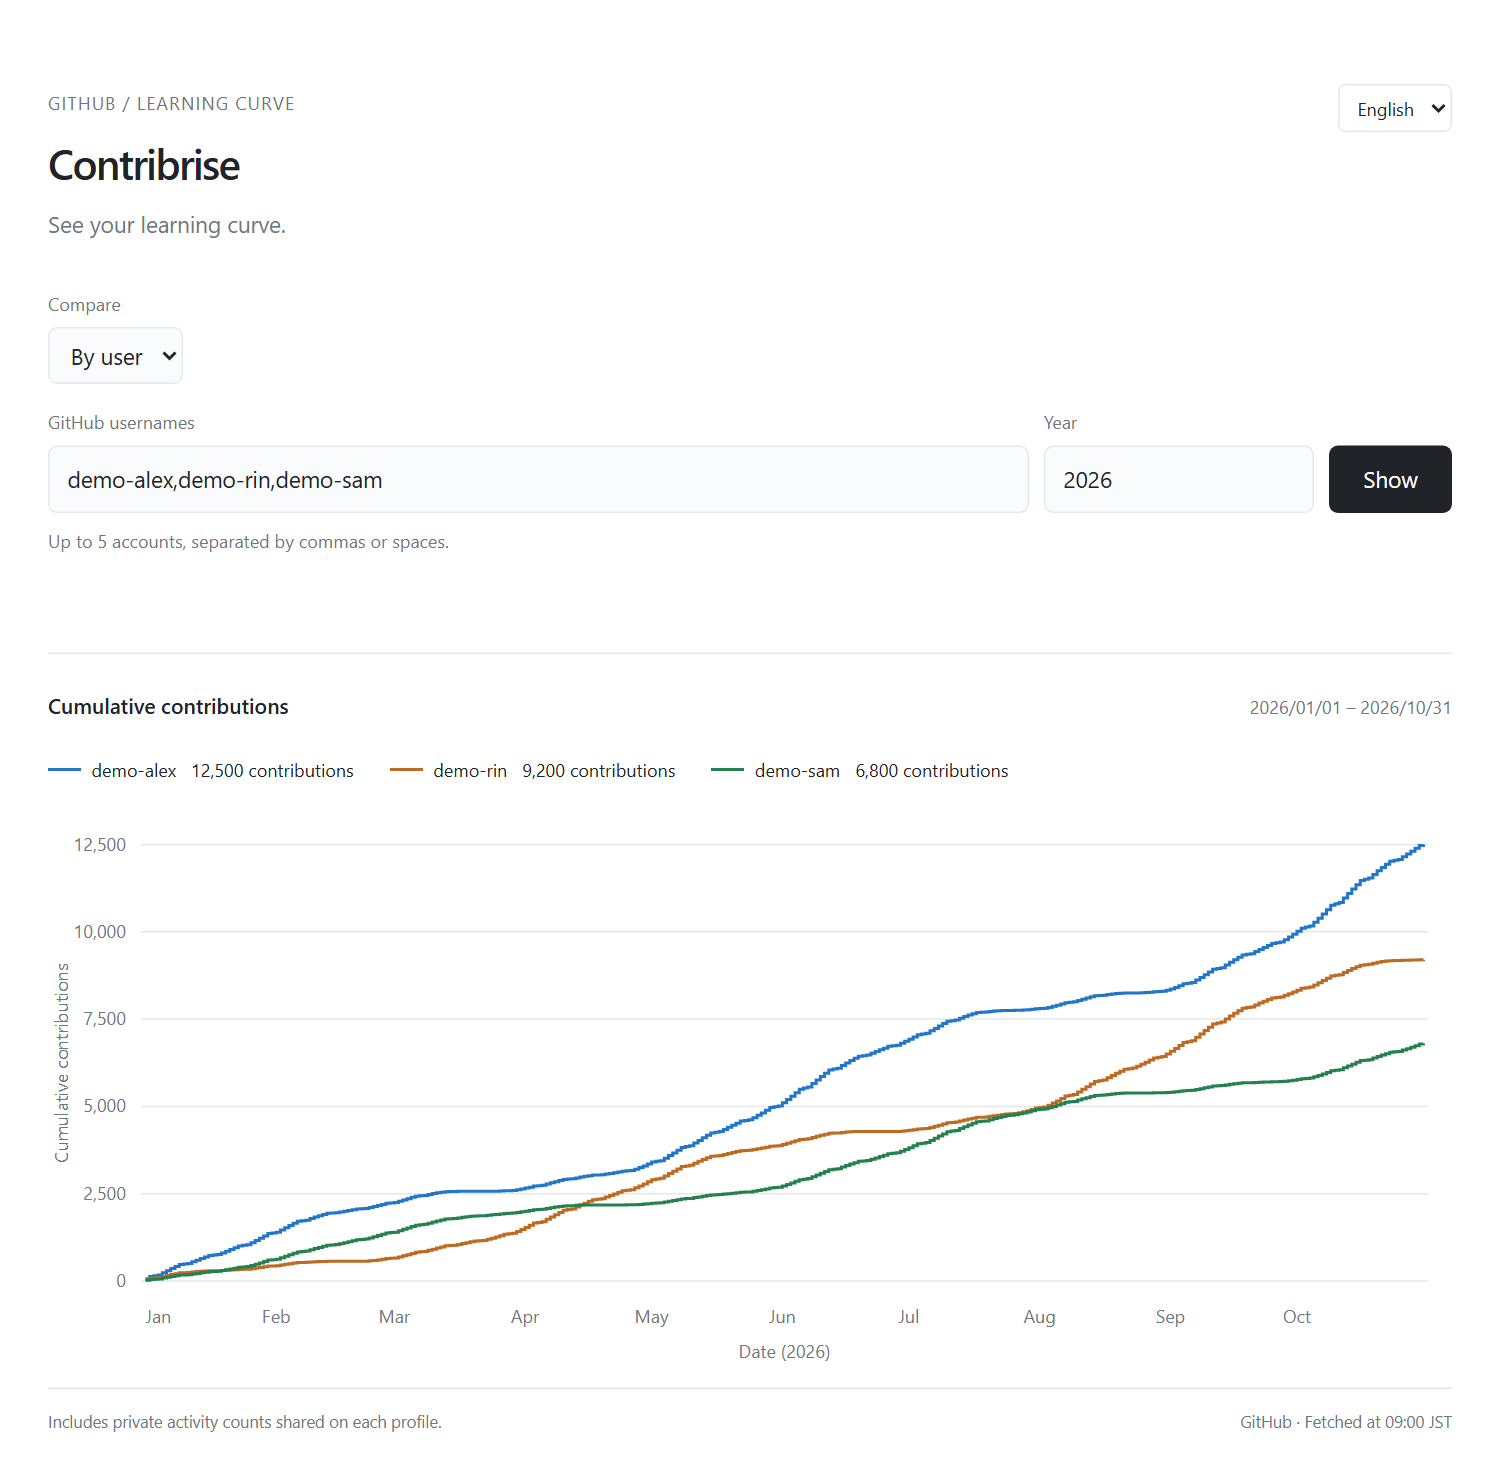
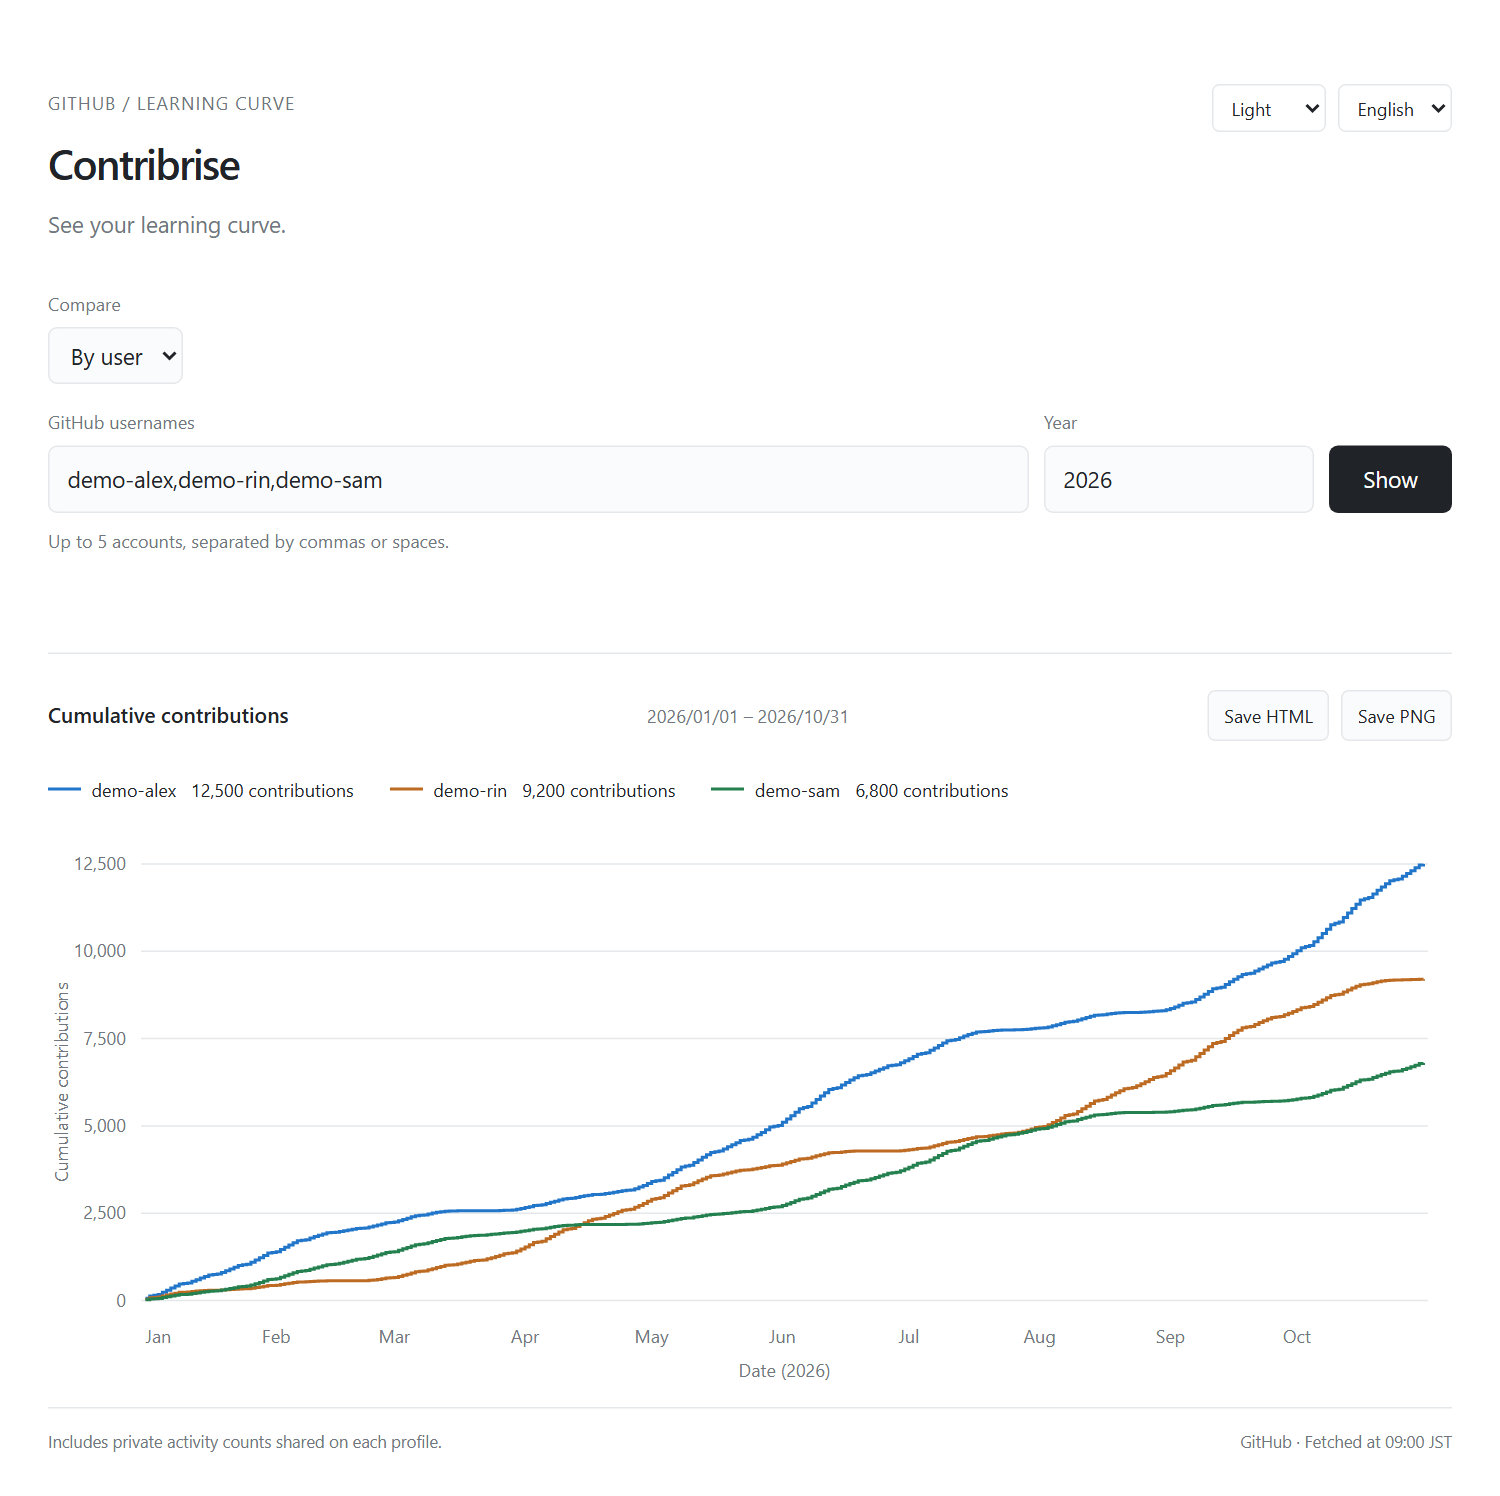
Refresh README screenshots with dark mode and PNG export controls

diff --git a/README.md b/README.md
@@ -6,9 +6,9 @@ Turn GitHub's contribution calendar into cumulative curves. Compare your years, 
 
 [日本語](README.ja.md) · [Quick start](#quick-start) · [How to use](#how-to-use)
 
-![Contribrise comparing five years of a fictional user's activity, with the most active year on a separate right axis.](docs/images/year-comparison.png)
+![Contribrise in dark mode comparing five years, with automatic dual axes and Save HTML and Save PNG buttons.](docs/images/year-comparison.png)
 
-_Year-by-year comparison with automatic dual axes. All screenshots use fictional usernames and synthetic data._
+_Year-by-year comparison in dark mode, with automatic dual axes and HTML/PNG export. All screenshots use fictional usernames and synthetic data._
 
 ## What you can do
 
@@ -41,9 +41,9 @@ The app opens in your browser. On Windows, you can also double-click `start.cmd`
 3. Click **Show**. Hover or tap for daily cumulative values; click a legend entry to hide or restore a line.
 4. Click **Save HTML** to download the current view as a single, read-only HTML file. It includes the chart, visible lines, language, theme, totals, and fetch time. Open it offline without running Contribrise; it contains no scripts or credentials. Choose **Save PNG** for a single image with the same chart, visible lines, totals, language, and theme. Both formats are generated locally in your browser.
 
-![Contribrise comparing the cumulative activity of three fictional accounts on a shared axis.](docs/images/user-comparison.png)
+![Contribrise in light mode comparing three fictional accounts, with theme selection and Save HTML and Save PNG buttons.](docs/images/user-comparison.png)
 
-_Account comparison on one shared scale. Switch between English and 日本語, or choose a light, dark, or system theme at the top right. Your theme is remembered._
+_Account comparison in light mode on one shared scale. Save the current view as HTML or PNG. Switch language and theme at the top right; your choices are remembered._
 
 The current year's line stops at the latest available date. Missing dates, including a leap day in a non-leap year, show a dash in the tooltip. Comparison URLs include the usernames, mode, and years, so another Contribrise user can restore the same view.
 
